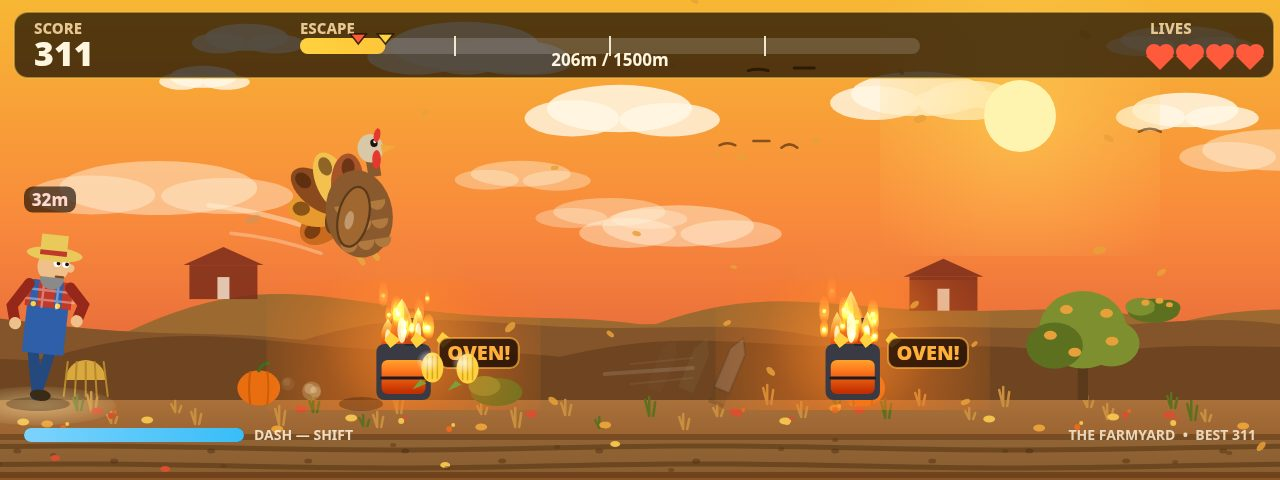
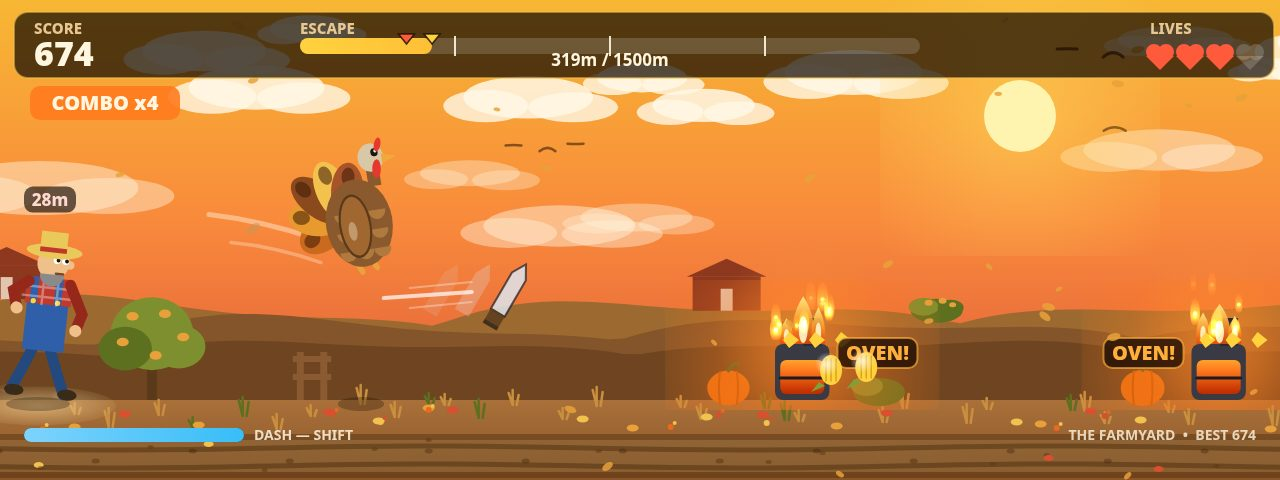
Polish round 12: cover knife+combo (play seed 54), clean end frame (end seed 146), ovenInFrame body-based right-edge fix

diff --git a/game/src/shots.js b/game/src/shots.js
@@ -116,6 +116,11 @@ function hazardAhead(state, maxD) {
 // its OVEN! label in shot, not one sliding off the right edge. And no
 // oven just entering at the right edge either: a 26 px sliver of oven
 // plus a whole OVEN! label reads as a cropping accident, not a hazard.
+// The test is on the BODY, not the left edge: an oven at sx=1282
+// passed the old check (both old tests need sx < 1280) while its body
+// sat entirely off-screen and its flipped label floated in alone over
+// a pumpkin — that is exactly what seed 54's first pick showed, so
+// the rule is now "body fully inside the frame or the frame is out".
 // The probe counted 7 right-edge-clean leap frames in the 40 s pass
 // (out of 20 with an oven in frame), so the constraint still leaves a
 // max-height leap to pick from — it does not starve the cover.
@@ -124,9 +129,8 @@ function ovenInFrame(state) {
   for (const e of state.entities) {
     if (!e.active || e.kind !== KIND_OVEN) continue;
     const sx = TURKEY_X + (e.x - state.distance) * PX_PER_M;
+    if (sx < 0 || sx + e.w * PX_PER_M > FIELD.width) return false;
     if (sx > 480 && sx < 1150) ok = true;
-    if (sx >= 1150 && sx < FIELD.width) return false;
-    if (sx < FIELD.width && sx + e.w * PX_PER_M > FIELD.width) return false;
   }
   return ok;
 }
@@ -141,6 +145,12 @@ export function stageShot(name, world) {
     return { screen: SCREEN_TITLE, best: 0 };
   }
   if (name === 'play') {
+    // The cover runs on seed 54 (not 7): on seed 7 the picked leap
+    // never has a knife near the bird or a combo — the only knife in
+    // that jump is 24 m out, faded to alpha 0.2 — while seed 54's
+    // picked leap (36.9 s, 668 pts, 313 m) has a knife 66 px from the
+    // turkey at head height and COMBO x4. Same pick rules, same
+    // autopilot; only the seed changed, so no gameplay code moved.
     // One 40 s pass, keeping the frame where the chase was closest —
     // the farmer in frame behind the turkey — with something to dodge
     // ahead. The airborne frame wins over the merely close one: a
@@ -218,10 +228,16 @@ export function stageShot(name, world) {
     });
     return { screen: SCREEN_PLAY, best: Math.floor(world.state.score) };
   }
-  // End: a short-sighted pilot on the shot's seed. Seed 19 escapes
-  // (7415 pts, 43 corn, combo x5, 2 lives left), so the end frame
+  // End: a short-sighted pilot on the shot's seed. Seed 146 escapes
+  // (6535 pts, 30 corn, combo x5, 2 lives left), so the end frame
   // shows the ESCAPED celebration — fireworks and gold feathers —
-  // instead of the CAUGHT red headline seed 7 gave.
+  // instead of the CAUGHT red headline seed 7 gave. Seed 146 was
+  // picked over seed 19 (7415 pts) because 19's final frame has a
+  // knife flying straight across the hero turkey's head, while 146
+  // is the highest-scoring escape (of 25 in seeds 1..150) with no
+  // knife anywhere near the hero's head — the only knives left are
+  // a low one skimming the ground left of the bird and one already
+  // faded out far to the right.
   runFor(world, END_LIMIT_SECONDS, HORIZON_END);
   const done = world.state.over || world.state.escaped;
   return { screen: done ? SCREEN_OVER : SCREEN_PLAY, best: Math.floor(world.state.score) };
